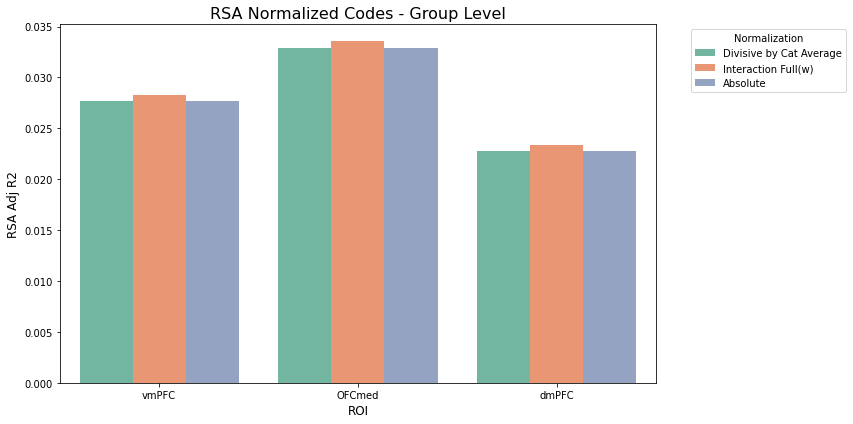
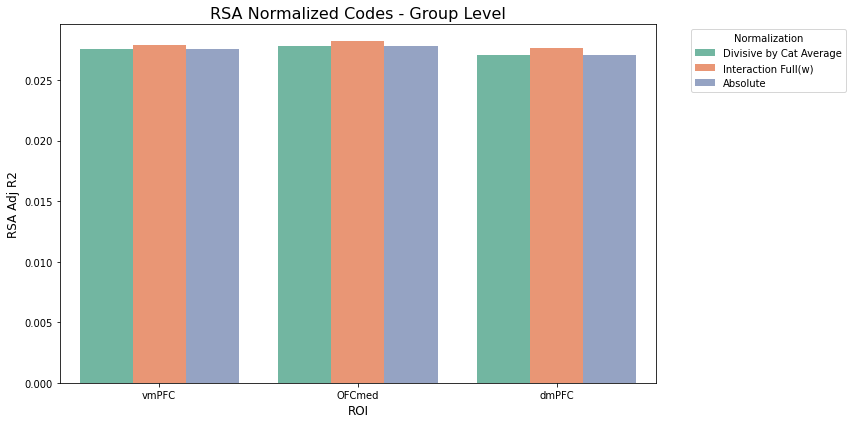
Group result

diff --git a/mvpa/rsa_norm_codes_group.py b/mvpa/rsa_norm_codes_group.py
@@ -125,7 +125,6 @@ def concatenate_group_data(subjects, bundle_path, mask_index, model_dsm_names):
     #subject_nuisance_dsms = create_subject_nuisance_dsm(n_samples_per_subject)
     #group_partial_dsms.append(subject_nuisance_dsms)
     subject_nuisance_dsms = np.concatenate(n_samples_per_subject)
-    breakpoint()
     
     # Verify all DSMs have the same length
     dsm_length = len(group_fmri_dsm)
@@ -134,10 +133,10 @@ def concatenate_group_data(subjects, bundle_path, mask_index, model_dsm_names):
     
     return group_fmri_dsm, group_partial_dsms, group_abs_value, trial_type_inds, group_btwn_day_inds, subject_nuisance_dsms
 
-def nonlinear_rsa_items_group(info, params, temp_fmri, partial_dsms, abs_value, trial_type_inds, btwn_day_inds):
+def nonlinear_rsa_items_group(info, params, temp_fmri, partial_dsms, abs_value, trial_type_inds, btwn_day_inds, subject_labels):
     """Group-level nonlinear RSA with subject nuisance regressors."""
     
-    def nonlinear_model_sigma(a0, a1, a2, a3, a4, b0, b1, sigma, w1, w_v, w_avg, abs_value, partial_dsms):
+    def nonlinear_model_sigma(a0, a1, a2, a3, a4, b0, b1, sigma, w1, w_v, w_avg, abs_value, partial_dsms, subject_labels):
         norm_values = np.zeros(len(abs_value))
         # trial_categ is same length as norm_values with 0s for items and 1s for bundles
         trial_categ = np.zeros(len(abs_value))
@@ -163,18 +162,37 @@ def nonlinear_rsa_items_group(info, params, temp_fmri, partial_dsms, abs_value, 
             value_dsm = value_dsm[btwn_day_inds]
         
         # Combine all regressors
-        partial_dsms = partial_dsms.T
-        x = np.column_stack((partial_dsms, value_dsm))
+        #partial_dsms = partial_dsms.T
+        #x = np.column_stack((partial_dsms, value_dsm))
         #X = np.column_stack((partial_dsms, value_dsm, subject_nuisance_dsms))
 
-        return a0 + a1 * x[:, 0] + a2 * x[:, 1] + a3 * x[:, 2] + a4 * x[:, 3] + x[:, 4] 
+        # Create subject regressors (1 for same subject, 0 for different)
+        unique_subjects = np.unique(subject_labels)
+        subject_effects = np.zeros(len(value_dsm))
+        
+        # For each subject (except the last one to avoid collinearity)
+        for i, subj in enumerate(unique_subjects[:-1]):
+            # Get parameter name for this subject
+            param_name = f's{i}'
+            # Create regressor (1 for within-subject comparisons, 0 for between)
+            is_within_subj = subject_labels == subj
+            # Add subject effect
+            subject_effects += params[param_name].value * is_within_subj
+        
+        # Combine all predictors
+        partial_dsms = partial_dsms.T
+        predicted_rdm = (a0 + a1 * partial_dsms[:, 0] + a2 * partial_dsms[:, 1] + 
+                        a3 * partial_dsms[:, 2] + value_dsm + subject_effects)
+
+        #return a0 + a1 * x[:, 0] + a2 * x[:, 1] + a3 * x[:, 2] + a4 * x[:, 3] + x[:, 4] 
+        return predicted_rdm
     
     # Create the LMfit model
-    lmfit_model = Model(nonlinear_model_sigma, independent_vars=['abs_value', 'partial_dsms'])
+    lmfit_model = Model(nonlinear_model_sigma, independent_vars=['abs_value', 'partial_dsms', 'subject_labels'])
 
     # Fit the model
     result = lmfit_model.fit(temp_fmri, params, 
-                             abs_value=abs_value, partial_dsms=partial_dsms)
+                             abs_value=abs_value, partial_dsms=partial_dsms, subject_labels=subject_labels)
     
     # Calculate statistics
     ss_total = np.sum((temp_fmri - np.mean(temp_fmri))**2)
@@ -259,7 +277,7 @@ def save_results(bundle_path, results_dict):
 if __name__ == "__main__":
     # Setup
     bundle_path = get_bundle_path()
-    subjects = [104, 107, 108]  # Add all subject numbers
+    subjects = [101, 102, 103, 104, 107, 108, 109, 110, 111, 112, 113, 114]  # Add all subject numbers
     mask_names = ['vmPFC', 'OFCmed', 'dmPFC']
     
     # Specify which model DSMs to use (same as in individual subject analysis)
@@ -270,7 +288,7 @@ if __name__ == "__main__":
         print(f"Processing {mask_name}...")
         
         # Load and concatenate data - now including model_dsm_names
-        group_fmri_dsm, group_model_dsms, group_abs_value, trial_type_inds, btwn_day_inds, subject_nuisance_dsms = concatenate_group_data(
+        group_fmri_dsm, group_model_dsms, group_abs_value, trial_type_inds, btwn_day_inds, subject_labels = concatenate_group_data(
             subjects, 
             bundle_path, 
             mask_idx,
@@ -291,10 +309,13 @@ if __name__ == "__main__":
         params.add('w1', value=0, vary=False)
         params.add('w_v', value=0, vary=False)  
         params.add('w_avg', value=1, vary=False)
+        # create subject parameters
+        for i in range(len(subjects)-1):  # n-1 subject parameters to avoid collinearity
+            params.add(f's{i}', value=0)
 
         if info['model'] not in results_dict: 
             results_dict[info['model']] = {}        
-        results_dict[info['model']][info['mask']], model_fit = nonlinear_rsa_items_group(info, params, group_fmri_dsm, group_model_dsms, group_abs_value, trial_type_inds, btwn_day_inds)
+        results_dict[info['model']][info['mask']], model_fit = nonlinear_rsa_items_group(info, params, group_fmri_dsm, group_model_dsms, group_abs_value, trial_type_inds, btwn_day_inds, subject_labels)
 
         # Set up parameters for Interaction Full(w)
         info = {'mask': mask_name, 'model': 'Interaction Full(w)'}
@@ -310,10 +331,13 @@ if __name__ == "__main__":
         params.add('w1', value=0, vary=False)
         params.add('w_v', value=0)  
         params.add('w_avg', value=0, vary=False)
+        # create subject parameters
+        for i in range(len(subjects)-1):  # n-1 subject parameters to avoid collinearity
+            params.add(f's{i}', value=0)
         
         if info['model'] not in results_dict: 
             results_dict[info['model']] = {}        
-        results_dict[info['model']][info['mask']], model_fit = nonlinear_rsa_items_group(info, params, group_fmri_dsm, group_model_dsms, group_abs_value, trial_type_inds, btwn_day_inds)
+        results_dict[info['model']][info['mask']], model_fit = nonlinear_rsa_items_group(info, params, group_fmri_dsm, group_model_dsms, group_abs_value, trial_type_inds, btwn_day_inds, subject_labels)
         
         # Set up parameters for absolute model
         info = {'mask': mask_name, 'model': 'Absolute'}
@@ -328,20 +352,13 @@ if __name__ == "__main__":
         params.add('w1', value=0, vary=False)
         params.add('w_v', value=0, vary=False )  
         params.add('w_avg', value=0, vary=False) 
+        # create subject parameters
+        for i in range(len(subjects)-1):  # n-1 subject parameters to avoid collinearity
+            params.add(f's{i}', value=0)
 
         if info['model'] not in results_dict: 
             results_dict[info['model']] = {}        
-        results_dict[info['model']][info['mask']], model_fit = nonlinear_rsa_items_group(info, params, group_fmri_dsm, group_model_dsms, group_abs_value, trial_type_inds, btwn_day_inds)
-        
-        # # Add subject nuisance parameters
-        # for i in range(len(subjects)-1):  # n-1 subject parameters to avoid collinearity
-        #     params.add(f's{i}', value=0)
-        
-        # # Fit group RSA
-        # results, model_fit = nonlinear_rsa_items_group(
-        #     info, params, group_fmri_dsm, group_model_dsms,
-        #     group_abs_value, trial_type_inds, btwn_day_inds
-        # )
+        results_dict[info['model']][info['mask']], model_fit = nonlinear_rsa_items_group(info, params, group_fmri_dsm, group_model_dsms, group_abs_value, trial_type_inds, btwn_day_inds, subject_labels)
         
         # Save results
         # save_dir = os.path.join(bundle_path, 'mvpa', 'analyses', 'group')
